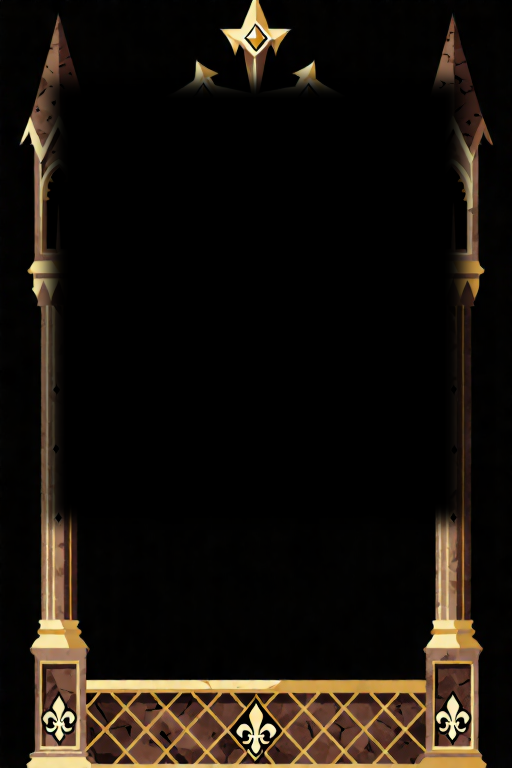
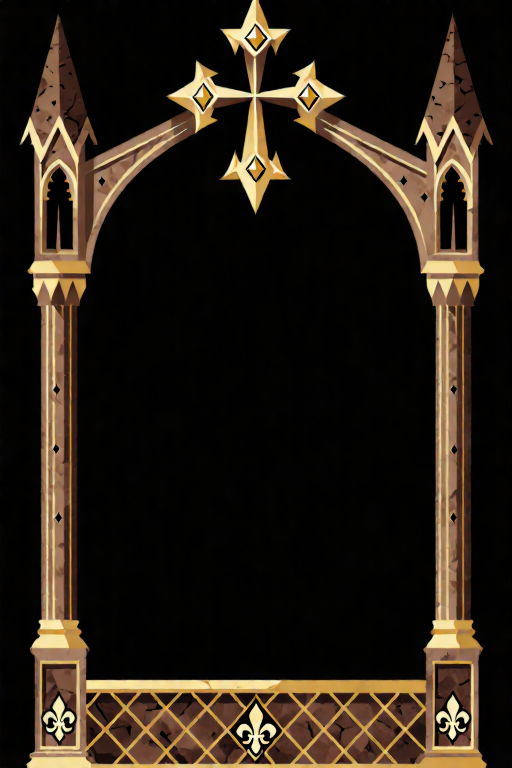
feat(class-select): rediseno ficha - arco gotico con personaje interior
Panel raw s4402: cruz dorada visible arriba, torres goticas flanqueando,
rejilla de diamantes abajo. Se elimina CardFrame SVG (bordes futuristas),
el personaje queda confinado al interior del arco (top:65px left/right:44px
height:calc(70%-65px)) con object-fit:contain para respetar las columnas
laterales. Panel con object-fit:contain para mostrar el marco completo sin
recortar. Fondo #060204 en la tarjeta para rellenar zonas vacias.

Changed region(s): [[0.0625, 0.0625, 0.9375, 0.7188]]

diff --git a/src/screens/ClassSelectScreen.jsx b/src/screens/ClassSelectScreen.jsx
@@ -7,56 +7,9 @@ const ARCHETYPE_ART = {
   heraldo: `${BASE}assets/generated/heraldo_s2014_nobg.png`,
 }
 const ARCHETYPE_PANELS = {
-  heraldo: `${BASE}assets/generated/heraldo_panel.png`,
+  heraldo: `${BASE}assets/generated/panel_v3_raw_s4402.png`,
 }
 
-// Marco SVG: esquinas en L doradas, borde fino, separador con diamante
-function CardFrame() {
-  return (
-    <svg
-      className="cs-frame"
-      viewBox="0 0 200 300"
-      preserveAspectRatio="none"
-      xmlns="http://www.w3.org/2000/svg"
-      aria-hidden="true"
-    >
-      {/* Borde exterior fino */}
-      <rect x="2" y="2" width="196" height="296" fill="none"
-            stroke="rgba(155,115,38,0.48)" strokeWidth="0.8"/>
-      {/* Borde interior offset */}
-      <rect x="6" y="6" width="188" height="288" fill="none"
-            stroke="rgba(155,115,38,0.15)" strokeWidth="0.4"/>
-
-      {/* Esquinas en L — top-left */}
-      <path d="M2 34 L2 2 L34 2" fill="none"
-            stroke="rgba(165,125,45,0.82)" strokeWidth="1.6" strokeLinecap="round"/>
-      {/* top-right */}
-      <path d="M166 2 L198 2 L198 34" fill="none"
-            stroke="rgba(165,125,45,0.82)" strokeWidth="1.6" strokeLinecap="round"/>
-      {/* bottom-left */}
-      <path d="M2 266 L2 298 L34 298" fill="none"
-            stroke="rgba(165,125,45,0.82)" strokeWidth="1.6" strokeLinecap="round"/>
-      {/* bottom-right */}
-      <path d="M166 298 L198 298 L198 266" fill="none"
-            stroke="rgba(165,125,45,0.82)" strokeWidth="1.6" strokeLinecap="round"/>
-
-      {/* Puntos en las cuatro esquinas */}
-      <circle cx="2"   cy="2"   r="2.2" fill="rgba(148,108,25,0.75)"/>
-      <circle cx="198" cy="2"   r="2.2" fill="rgba(148,108,25,0.75)"/>
-      <circle cx="2"   cy="298" r="2.2" fill="rgba(148,108,25,0.75)"/>
-      <circle cx="198" cy="298" r="2.2" fill="rgba(148,108,25,0.75)"/>
-
-      {/* Separador a ~68% de altura (204/300) */}
-      <line x1="8"   y1="204" x2="88"  y2="204"
-            stroke="rgba(140,105,25,0.5)" strokeWidth="0.7"/>
-      <line x1="112" y1="204" x2="192" y2="204"
-            stroke="rgba(140,105,25,0.5)" strokeWidth="0.7"/>
-      {/* Diamante central en el separador */}
-      <polygon points="100,200.5 104.5,204 100,207.5 95.5,204"
-               fill="rgba(155,115,38,0.7)"/>
-    </svg>
-  )
-}
 
 function ClassCard({ arch, animClass }) {
   const art   = ARCHETYPE_ART[arch.id]
@@ -73,9 +26,6 @@ function ClassCard({ arch, animClass }) {
       {art
         ? <img className="cs-character" src={art} alt={arch.name} draggable="false" />
         : <div className="cs-character-empty"><span>⚔</span></div>}
-
-      {/* Marco decorativo encima de todo */}
-      <CardFrame />
 
       {/* Ficha de personaje */}
       <div className="cs-info">

diff --git a/src/styles.css b/src/styles.css
@@ -415,12 +415,13 @@ button,
 }
 .cs-viewport:active { cursor: grabbing; }
 
-/* Card — llena todo el espacio disponible sin aspect-ratio fijo */
+/* Card — llena todo el espacio disponible */
 .cs-card {
   position: relative;
   width: calc(100% - 16px);
   max-width: 440px;
-  height: calc(100% - 8px);
+  height: 100%;
+  background: #060204;
   border-radius: 10px;
   overflow: hidden;
   box-shadow:
@@ -440,29 +441,32 @@ button,
   z-index: 4;
 }
 
-/* Panel background decorativo */
+/* Panel background decorativo — contain para no recortar el marco lateral */
 .cs-panel {
   position: absolute;
   inset: 0;
   width: 100%;
   height: 100%;
-  object-fit: cover;
+  object-fit: contain;
   object-position: center top;
   display: block;
+  z-index: 0;
 }
 .cs-panel--default {
   background: linear-gradient(170deg, #0d0408 0%, #110609 55%, #0a0305 100%);
 }
 
-/* Imagen del personaje — PNG con fondo transparente, sin blend mode */
+/* Personaje — confinado al interior del arco, deja visible torres y rejilla */
 .cs-character {
   position: absolute;
-  inset: 0;
-  width: 100%;
-  height: 100%;
-  object-fit: cover;
+  top: 65px;
+  left: 44px;
+  width: calc(100% - 88px);
+  height: calc(70% - 65px);
+  object-fit: contain;
   object-position: center top;
   display: block;
+  z-index: 1;
 }
 .cs-character-empty {
   position: absolute;
@@ -485,9 +489,9 @@ button,
   background: linear-gradient(
     to bottom,
     transparent           0%,
-    rgba(4, 2, 2, 0.70)  10%,
-    rgba(4, 2, 2, 0.88)  24%,
-    rgba(4, 2, 2, 0.94)  100%
+    rgba(4, 2, 2, 0.12)  18%,
+    rgba(4, 2, 2, 0.72)  42%,
+    rgba(4, 2, 2, 0.93)  100%
   );
   text-align: center;
   padding: 0 16px 14px;